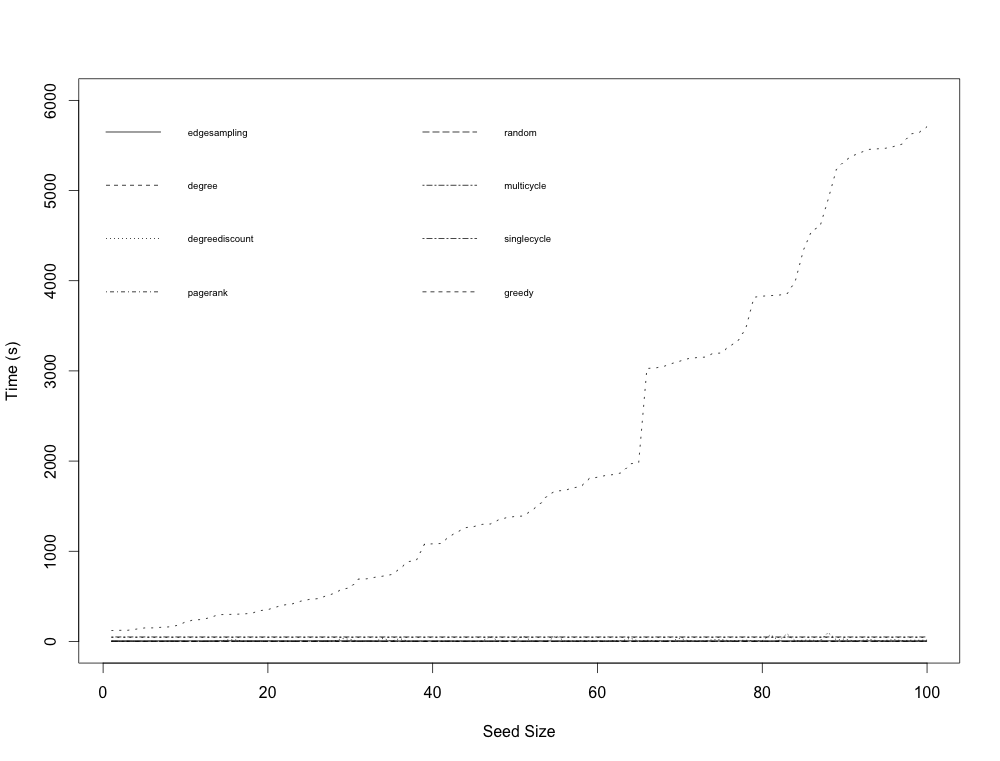
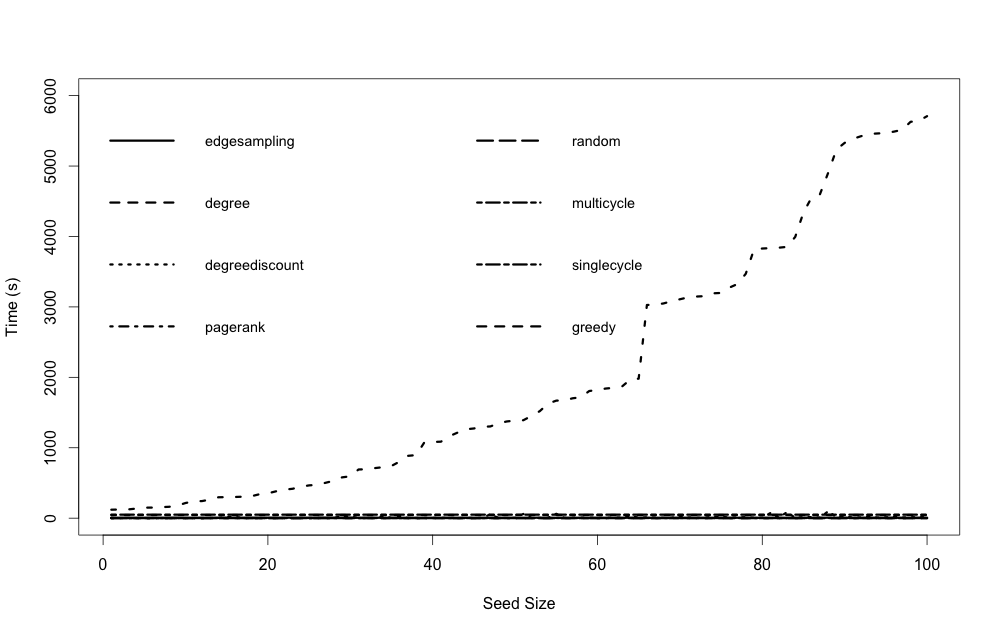
more readable graphs, addressed several issues pointed to be by Hannu, still has the appendix

diff --git a/main/main.tex b/main/main.tex
@@ -63,8 +63,7 @@ The rest of this document is structured as follows. Section \ref{sec:influencema
 \label{sec:influencemax}
 Effective marketing and advertisement methods have been a major application of Knowledge Discovery and Data mining. Prior to Domingo and Richardson \cite{domingo01} the focus has always been on direct marketing. Contrary to traditional mass marketing, where a product was marketed to all the customers, in direct marketing the goal is to find the most potential and profitable costumers. While direct marketing is a great tool for increasing the profit, it only targets individuals and disregards the relationship between users. People's decision in purchasing an item is not only influenced by the product itself, but also by friends, colleagues and acquaintances. With introduction of Internet and social networks, gathering information about users became easier and more feasible. Social networks nowadays contain information about millions of people, they also contain information related to people's relationship with each other. Utilizing these information can make marketing more profitable, by targeting people that are more likely to promote the product to their acquaintances. 
 Domingo and Richardson \cite{domingo01} discussed the use case of influence maximization in marketing, calling it \textit{Viral Marketing}. By modeling a market as a social network consisting of users and products. In such a network, probability of users buying products not only depends on the product itself but also on the neighbors of the user and the set of marketing actions being applied to the network. Hence the market can be formulated as join probability distribution. 
-Through these a function was devised that calculates the global lift in profit given a marketing action was applied to some users. Starting from an initial configuration, using different optimization algorithms a local maxima for the function can be reached. Hence the problem of influence maximization can be formulated as follows. \\ \\
-\textit{Given a size $k$ for the initial seeds, find the set of nodes $A$ that maximizes the function $f$ which is the size of spread throughout the network. }\\ \\
+Through these a function was devised that calculates the global lift in profit given a marketing action was applied to some users. Starting from an initial configuration, using different optimization algorithms a local maxima for the function can be reached. 
 They experimented on a collaborative filtering data set (MovieLens\footnote{https://movielens.org/}) in which users have rated a list of movies. They have first constructed the network with the user ratings, by choosing similar users (calculating the Pearson correlation coefficient of users) as neighbors. They have performed experiments on the data set and compared their method with mass marketing and direct marketing. Their method has increased the profit the most. Due to non-linearity of the model, it did not scale well for bigger size networks, hence they have proposed a new linear model in another paper \cite{domingo02}. Not only the new model decreased the computation time, they simplified equation for calculating the network value of customers, and made it easier to incorporate more complex marketing action. They have experimented with Epinions\footnote{http://www.epinions.com/} data set, which is a website where users can rate items. It also has a feature called trusted users, where each user can select many other users as trusted sources of reviews. Domingo et al.\ \cite{domingo02}, hence, applied their model to the dataset, by considering trusted users of a user as his neighbors. Their experiments showed that a continuous marketing action (a marketing action that can have unlimited values, such as a discount) performs much better than boolean marketing actions (one that can either be true or false, such as whether or not a discount should be given to a user with no regards for the amount of the discount). These two papers, are considered the first works in influence maximization, several other authors have used the concepts here to further improve and propose new methods for calculating the spread of nodes through a network.
 
 \subsection{Information Diffusion Models}
@@ -72,12 +71,12 @@ With introduction of Social Networks, the topic of information diffusion has gai
 
 \begin{itemize}
 \item Linear Threshold Model:\\
-Consider a directed graph G representing a social network, and individual nodes being either active or non-active. Inactive nodes may become active as more of their neighbors become active but the reverse is not possible. In \textit{Linear Threshold Model (LT)}, each node $v$ is influenced by each of their neighbors $u$ according to a weight $b_{u,v}$ such that $\sum \nolimits_{u \, neighbor \, of \, v} b_{u,v} < 1$. The diffusion process hence is as follows; each node $v$ will randomly chose a weight threshold $0 < \theta_v<1 $, this value determines tendency of node $v$ to become active. Starting from the initial seed set, in each iteration for each node if the sum of the weights of its active neighbors is greater than the threshold then the node will become active, i.e.\ $\sum \nolimits_{u \, active neighbor \, of \, v} b_{u,v}  \geq \theta_v $. The process is deterministic however since $\theta_v$ is chosen at random, it shows our lack of knowledge of users' tendencies to become active. This process continues until no new nodes become active.
+Consider a graph $G=(V,E)$, and all nodes being either active or non-active. Inactive nodes may become active as more of their neighbors become active but the reverse is not possible. In \textit{Linear Threshold Model (LT)}, each node $v$ is influenced by each of its neighbor $u$ according to a weight $b_{u,v}$ such that $\sum \nolimits_{u \, neighbor \, of \, v} b_{u,v} \leq 1$. The process starts with an initial set of active nodes and at the beginning of the process each node $v$ will randomly chose a weight threshold $0 < \theta_v<1 $, this value determines the tendency of node $v$ to become active. The diffusion process moves forward deterministically in series of discrete time steps $t$ and continues until no new nodes become active. In each time step $t$, all of the active nodes from step $t-1$ remain active and any non-active node $v$ is activated if $\sum \nolimits_{u \, active neighbor \, of \, v} b_{u,v} \geq \theta_v$. $\theta_v$ is chosen randomly to indicate our lack of knowledge about node's influenceability.  
 
 \item Independent Cascade Model:\\ 
- \textit{Independent Cascade Model (IC)} is a stochastic undeterministic process. Same as linear threshold model, it starts with an initial set of seeds, and in each time step $t$ every active node will try only once to activate all of its neighbors, the probability of a node $v$ activating one of its neighbors $u$ is defined by a system property $p_{v,u}$. The process continues until no more new nodes can become active. Every node will try to activate its neighbors independently of other nodes, and if during one time step, a node $v$ first becomes active by node $u$ the rest of $v$'s neighbors can skip the activation process. In that sense the ordering of which nodes should activate their neighbors first, will not affect the final result.
+ \textit{Independent Cascade Model (IC)} is a stochastic undeterministic process. Same as linear threshold model, it starts with an initial set of active nodes and the process continues in a series of discrete time steps. In each time step $t$, all of the active nodes from step $t-1$ will remain active and any node that was activated in step $t-1$ tries to activate all of its neighbors. The probability of a node $u$ activating one of its neighbors $v$ is defined by a system property $p_{u,v}$. The process continues until no more new nodes can become active. Every node will try to activate its neighbors independently of other nodes, and if during one time step, a node $v$ first becomes active by node $u$ the rest of $v$'s neighbors can skip the activation process. It is important to note that in each time step only nodes that became active in the previous time step will try to activate their neighbors, that means each activated node will only have one chance of activating its neighbors in the entire diffusion process. In classical Independent Cascade, the activation probability $p_{u,v}$ (probability of $u$ activating $v$) is defined as a system property and it either takes one constant value or a value randomly chosen from a small set of values. There are different methods for choosing the activation probability, and some of them are described in section \ref{subsec:learninginfprob}. 
 \end{itemize}
-Based on IC model another diffusion model is commonly used in literature, named \textit{Weighted Cascade (WC)} which is similar to IC with the exception of the activation probability. Where in IC it is defined as a global property, in WC each edge from $u$ to $v$ is assigned the probability $1/d_v$, where $d_v$ is the degree of vertex $v$. The probability for edges in weighted methods can be calculated in different ways, in fact finding the influence of nodes on each other is another research area in influence maximization and it is briefly explained in \ref{subsec:learninginfprob} .
+
 
 \subsection{Influence Maximization Problem}
 Kempe et al.\ \cite{kempe03} were the first to formulate Influence maximization as an optimization problem and proved that the problem is NP-complete. By studying how influence propagates through networks using the two diffusion models discussed earlier (IC and LT), they have formally expressed Domingos and Richardson's \cite{domingo01} optimization problem in the context of the above models. Both diffusion models involve an initial set of nodes $A$, the influence of the set $A$ denoted by $\sigma (A)$ is then defined as the number of nodes at the end of the process. Formally, the influence maximization problem can be defined as: \\
@@ -97,7 +96,7 @@ $f(A \cup \{v\}) - f(A) \geq f(S \cup \{v\}) - f(S)$, where $A \subseteq S$
 The greedy algorithm proposed by Kempe et al.\ \cite{kempe03} is described in Algorithm \ref{alg:KempeInfMax1}. 
 \begin{algorithm}[ht!]
 \floatname{algorithm}{Algorithm}
-\caption{Influence Maximization: Greed Algorithm}
+\caption{Influence Maximization: Greedy Algorithm \cite{kempe03}}
 \label{alg:KempeInfMax1}
 \begin{algorithmic}
 \Require $G(V,E)$: Graph $G$, with Vertex set $V$ and Edge set $E$
@@ -114,13 +113,13 @@ The greedy algorithm proposed by Kempe et al.\ \cite{kempe03} is described in Al
 \end{algorithmic}
 \end{algorithm}
 \\
-They have run experiments on co-authorship in physics theory section of arXiv \footnote{www.arxiv.org} dataset. The results show that their greedy algorithm performs better that other methods such as random selection, high-degree or central nodes .
-Both in estimating the spread and also in the greedy method, $\sigma (S)$ has to be calculated, but both of the propagation models are non-deterministic. To overcome this, the model is run many times (usually 10000) and the spread is the average of all the runs. The nature of the spread function makes the algorithm highly non scalable. Even on medium sized graphs running the simulation will take a lot of time, but on the other hand a good solution is only guaranteed if the simulation is run many times. From Algorithm \ref{alg:KempeInfMax1} it can be observed that $\sigma(v)$ is run for every node in every iteration, this will greatly affect the performance of the greedy method.
+They have run experiments on co-authorship in physics theory section of arXiv \footnote{www.arxiv.org} dataset. The results show that their greedy algorithm performs better than other methods such as random selection, high-degree or central nodes .
+Both in estimating the spread and also in the greedy method, $\sigma(S)$ has to be calculated, but since both of the diffusion processes involve random elements($\theta_v$ in Linear Threshold and activation of new nodes in Independent Cascade) to achieve a better estimate of the total spread, the models have to be run many times and the spread is calculated as the average of all the runs. The nature of the spread function makes the algorithm highly non scalable. Even on medium sized graphs running the simulation will take a lot of time, but on the other hand a good solution is only guaranteed if the simulation is run many times. The value of $\sigma(v)$ does not only depend on $v$ itself, but it also depends on the other active nodes. Hence in each iteration of the algorithm where a new node is added to the active vertices list, the value of $\sigma(v)$ has to be recalculated. This will greatly affect the performance of the greedy method.
 Leskovec et al.\ \cite{leskovec07}  in their Cost effective outbreak detection in networks, took upon the task of optimizing the greedy method used in propagation in graph networks. Although they did not work on solving the problem of maximizing influence, they have proven their method can be adapted to the problem of maximizing the influence using the greedy algorithm. They studied two problems from different domains which share some similarities with influence maximization. The first problem is finding the best placement of sensors in a water network, so that contaminated water can be detected as quickly as possible. The other problem is blog network, which is to find blogs that contains the maximum amount of news that cascades from different sources in shortest possible time. Their advanced greedy method, called \textit{CELF}, utilizes the submodularity of the objective function, which reduces the amount of computation needed to be made in each iteration. Their method is 700 times faster than a simple greedy function. 
 Their observation is that, if $A$ is subset of $B$, the marginal gain of adding a node to $B$ is always less than or equal to the marginal gain of the adding the same node to $A$. Hence instead of recomputing the gain for all the node in each iteration, we can go through the nodes in decreasing order of their spread and recompute their values, the change is usually very small and most of the time the value on top of the list stays on top. Algorithm \ref{alg:celf} describes CELF method.
 \begin{algorithm}[ht!]
 \floatname{algorithm}{Algorithm}
-\caption{CELF Algorithm}
+\caption{CELF Algorithm \cite{leskovec07}}
 \label{alg:celf}
 \begin{algorithmic}
 \Require $G(V,E)$: Graph $G$, with Vertex set $V$ and Edge set $E$
@@ -141,7 +140,7 @@ Their observation is that, if $A$ is subset of $B$, the marginal gain of adding 
 \end{algorithmic}
 \end{algorithm}
 As can be seen from the algorithm description, the difference between CELF and the normal Greedy method, is that in CELF, $delta_v$ is pre-calculated for all the vertices first, then starting from the biggest value, in each iteration $\delta_u$ is recalculated for vertex $u$ if the value is still higher than the next vertex in the list, then node $u$ is added to $S$ otherwise the next vertex is chosen. As in the previous algorithm, $\sigma(v)$ is the expected spread of the node $v$ under the IC model. 
-\\Chen et al.\ \cite{chen09} proposed several different methods for solving the problem of influence maximization. The first group of algorithms, were improvements upon Kempe et al.\ \cite{kempe03} and Leskovec et al.\ \cite{leskovec07} greedy methods. In their greedy method, they have modified the simulation process. Instead of trying to activate nodes based on the edge probability one by one, they have first created a new Graph $G'$ which is sampled from the original graph based on the edge probability. Now the process of estimating the spread of initial set $S$ is just finding the number of reachable nodes in $G'$ from $S$, this process is repeated many times and the result is the average for all of the $G'$ sampled Graphs. Although this method is much faster than the original greedy method, it cannot compete with Leskovec \cite{leskovec07} CELF method, since in their method only in the first iteration the spread for all the nodes are calculated and from the second iteration onward, due to submodularity only the spread for a few of the nodes are recalculated. Hence, they have combined their new Greedy method with CELF, where in the first iteration they use the sample graphs to calculate the spread and in the following iterations CELF is used. The second class of algorithms they have proposed are a set of heuristics for finding the seed set that maximizes the influence. Prior to their work, heuristics have been considered inferior to the Greedy method and while that is true for many of the heuristics, such as degree, random, distance and etc., their proposed heuristic called \textit{DegreeDiscountIC} managed to achieve almost the same spread with the greedy method while outperforming the greedy methods by orders of magnitude. Details of the algorithm DegreeDiscountIC is explained in section \ref{sec:bigdatanetworkinfluelncemaximization}.
+\\Chen et al.\ \cite{chen09} proposed several different methods for solving the problem of influence maximization. The first group of algorithms, were improvements upon Kempe et al.\ \cite{kempe03} and Leskovec et al.\ \cite{leskovec07} greedy methods. In their greedy method, they have modified the simulation process. Instead of trying to activate nodes based on the edge probability one by one, they have first created a new Graph $G'$ which is sampled from the original graph based on the edge probability. Now the process of estimating the spread of initial set $S$ is just finding the number of reachable nodes in $G'$ from $S$, this process is repeated many times and the result is the average for all of the $G'$ sampled Graphs. Although this method is much faster than the original greedy method, it cannot compete with CELF \cite{leskovec07} method, since in their method only in the first iteration the spread for all the nodes are calculated and from the second iteration onward, due to submodularity only the spread for a few of the nodes are recalculated. Hence, they have combined their new Greedy method with CELF, where in the first iteration they use the sample graphs to calculate the spread and in the following iterations CELF is used. The second class of algorithms they have proposed are a set of heuristics for finding the seed set that maximizes the influence. Prior to their work, heuristics have been considered inferior to the Greedy method and while that is true for many of the heuristics, such as degree, random, distance and etc., their proposed heuristic called \textit{DegreeDiscountIC} managed to achieve almost the same spread with the greedy method while outperforming the greedy methods by orders of magnitude. Details of the algorithm DegreeDiscountIC is explained in section \ref{sec:bigdatanetworkinfluelncemaximization}.
 
 Other notable heuristic method is of Saito and Kimura \cite{kimura06}. They have investigated the scalability issue of IC model's simulations. They have argued that currently IC model requires many iterations of simulation and each iteration took a lot of processing time and power. They have proposed two natural special cases of the IC model that provide a good estimate of the spread without the need for running the simulations. They define the Shortest-Path Model(SPM) which is a special case of the IC model in which each node $v$ has the chance to become active only at step = $d(S,v)$, where if $S$ is the initial set, $d(S,v)$ is the distance of $S$ to node $v$. This means that each node is activated only through the shortest paths from the initial active set. The other model they have proposed named SP1M, which is each node v has the chance to become active only at steps $t = d(S,v)$ and $t =d(S,v) + 1$. Through these two models they have proposed methods for calculating the spread of an initial active set $S$. They have proved that the result achieved using this method is also within a bound of the best solution. In their experiments, they have assigned a uniform probably to each edge with two different values $p = 0.1$ and $p =0.01$. The experiments showed that the estimation of the spread for IC model increases as p increases while the processing times for the SPM and SP1M hardly changes. 
 
@@ -159,7 +158,7 @@ The same set of snapshots are reused in every iteration to estimate the influenc
 They have performed experiment and compared their methods with the normal Greedy methods. None of the other greedy methods are any match with StaticGreedy in terms of speed and scalability.
 \begin{algorithm}[ht!]
 \floatname{algorithm}{Algorithm}
-\caption{UBLF Algorithm}
+\caption{UBLF Algorithm  \cite{zhuo13}}
 \label{alg:ublf}
 \begin{algorithmic}
 \Require $G(V,E)$: Graph $G$, with Vertex set $V$ and Edge set $E$
@@ -184,7 +183,7 @@ They have performed experiment and compared their methods with the normal Greedy
 \end{algorithmic}
 \end{algorithm}
 
-Zhuo et al.\ \cite{zhuo13} propsed a new Greedy algorithm called \textit{Upper Bound based Lazy Forward algorithm(UBLF)}. They have tried to bound the number of Monte Carlo simulation calls, similar to Leskovec et al.\ \cite{leskovec07}'s CELF algorithm. CELF increased the speed of the original algorithm by a factor 700 on average case, but still on its first iteration it has to calculate the spread of every vertex, that means Monte Carlo simulations have to be run for all the vertices in the first iteration, and it was argued before, that while that is reasonably fast and will give good result on small networks, it will not perform well on medium sized graphs let alone large scale graphs. To that extent, even running the simulations for all the vertices once is not feasible. Zhuo et al.\ \cite{zhuo13} provided a mathematically proven upper bound for spread function of any initial set. In UBLF, instead of running simulations for each vertex in the first iteration, they find the upper bound which can be found in constant time. Having the initial values for all the nodes, they used the same technique as CELF, and instead of the calculating the expected spread for all the nodes, they started calculating the spread for vertices in order of their initial estimated spread, if the estimated spread was still bigger than the rest of nodes, the node was chosen and added to the seed set. Computation continues until desired number of initial seeds are achieved. Algorithm \ref{alg:ublf} describes UBLF. The matrix $PP$ is constructed from the graph, where each value $(u,v)$ in the matrix corresponds to the edge $e=(u,v)$; value of the edge that connects $u$ to $v$. $S$ consists of the seed set, the output of the algorithm i.e.\ nodes with highest influence propagation and $I$ is the \textit{identity matrix}. Before starting the iterative process, vector $\delta$ is calculated. In each iteration of the algorithm, vertices with the maximum $\delta$ are chosen, if Monte Carlo simulation is not yet run for them, the algorithm will run the simulation, if the value of $\delta_u$ is still greater than the node with second highest $\delta$ then $u$ is added to to the set $S$ . The process continues for $k$ iteration, where $k$ is the desired size of the output. $\sigma(v)$ is the expected spread of $v$ under the \textit{IC} model. Experimental results shows that UBLF manages to reduce more than $95\%$ Monte Carlo simulations needed and is at least 2 to 5 times faster than CELF method.
+Zhuo et al.\ \cite{zhuo13} propsed a new Greedy algorithm called \textit{Upper Bound based Lazy Forward algorithm(UBLF)}. They have tried to bound the number of Monte Carlo simulation calls, similar to CELF algorithm \cite{leskovec07}. CELF increased the speed of the original algorithm by a factor 700 on average case, but still on its first iteration it has to calculate the spread of every vertex, that means Monte Carlo simulations have to be run for all the vertices in the first iteration, and it was argued before, that while that is reasonably fast and will give good result on small networks, it will not perform well on medium sized graphs let alone large scale graphs. To that extent, even running the simulations for all the vertices once is not feasible. Zhuo et al.\ \cite{zhuo13} provided a mathematically proven upper bound for spread function of any initial set. In UBLF, instead of running simulations for each vertex in the first iteration, they find the upper bound which can be found in constant time. Having the initial values for all the nodes, they used the same technique as CELF, and instead of the calculating the expected spread for all the nodes, they started calculating the spread for vertices in order of their initial estimated spread, if the estimated spread was still bigger than the rest of nodes, the node was chosen and added to the seed set. Computation continues until desired number of initial seeds are achieved. Algorithm \ref{alg:ublf} describes UBLF. The matrix $PP$ is constructed from the graph, where each value $(u,v)$ in the matrix corresponds to the edge $e=(u,v)$; value of the edge that connects $u$ to $v$. $S$ consists of the seed set, the output of the algorithm i.e.\ nodes with highest influence propagation and $I$ is the \textit{identity matrix}. Before starting the iterative process, vector $\delta$ is calculated. In each iteration of the algorithm, vertices with the maximum $\delta$ are chosen, if Monte Carlo simulation is not yet run for them, the algorithm will run the simulation, if the value of $\delta_u$ is still greater than the node with second highest $\delta$ then $u$ is added to to the set $S$ . The process continues for $k$ iteration, where $k$ is the desired size of the output. $\sigma(v)$ is the expected spread of $v$ under the \textit{IC} model. Experimental results shows that UBLF manages to reduce more than $95\%$ Monte Carlo simulations needed and is at least 2 to 5 times faster than CELF method.
 
 \subsection{Learning Influence Probabilities}
 \label{subsec:learninginfprob}
@@ -236,7 +235,7 @@ Newer versions of Hadoop and MapReduce employs more sophisticated resource manag
 
 \begin{figure}[ht!]
 \centering
-\includegraphics[width=130mm]{figures/mapreduce.jpg}
+\includegraphics[width=150mm]{figures/mapreduce.jpg}
 \caption[]{MapReduce paradigm \footnotemark}
 
 \label{fig:mapreducepara}
@@ -246,7 +245,7 @@ Newer versions of Hadoop and MapReduce employs more sophisticated resource manag
 \textit{Hadoop Distributed File System (HDFS)} is a distributed file system, designed to run on commodity hardware. It provides high throughput access to application data and it is fault tolerant. Though initially designed for Hadoop's MapReduce framework, it has been used in many different applications and frameworks.
 \begin{figure}[ht!]
 \centering
-\includegraphics[width=130mm]{figures/hdfsarchitecture.png}
+\includegraphics[width=150mm]{figures/hdfsarchitecture.png}
 \caption[]{HDFS Architecture \protect \footnotemark}
 \label{fig:hdfsarch}
 \end{figure}
@@ -261,7 +260,7 @@ A typical Spark program consists of a driver program that launches multiple work
 
 \begin{figure}[ht!]
 \centering
-\includegraphics[width=130mm]{figures/sparkprogram.png}
+\includegraphics[width=150mm]{figures/sparkprogram.png}
 \caption[]{Spark Program, Zahaeria et al.\ \cite{zaharia10}}
 \label{fig:sparkprogram}
 \end{figure}
@@ -271,7 +270,7 @@ Users can control RDDs behavior by persisting it to memory or disk. Tests perfor
  
 \begin{figure}[ht!]
 \centering
-\includegraphics[width=130mm]{figures/rdd.png}
+\includegraphics[width=150mm]{figures/rdd.png}
 \caption[]{Spark stages and RDDs  Zahaeria et al.\ \cite{zaharia12} }
 \label{fig:rdd}
 \end{figure}
@@ -300,7 +299,7 @@ In a typical Giraph program, input graph is usually stored and read from the HDF
 Figure \ref{fig:giraph} shows how computation is done in Giraph.
 \begin{figure}[ht!]
 \centering
-\includegraphics[width=130mm]{figures/giraphdataflow.png}
+\includegraphics[width=150mm]{figures/giraphdataflow.png}
 \caption{Giraph Work Flow \protect \footnotemark}
 \label{fig:giraph}
 \end{figure}
@@ -310,7 +309,7 @@ Each Giraph cluster has a master node and one or more worker nodes. Master node 
 The figure \ref{fig:sssp} shows supersteps involved with computing the single source shortest path for a simple graph.
 \begin{figure}[ht!]
 \centering
-\includegraphics[width=130mm]{figures/giraphsuperstep.jpg}
+\includegraphics[width=150mm]{figures/giraphsuperstep.jpg}
 \caption{Single Source Shortest Path  \protect \footnotemark}
 \label{fig:sssp}
 \end{figure}
@@ -333,7 +332,7 @@ GraphX also provides a Pregel like API, that users should only provide the verte
 
 \section{Big Data and Network Influence Maximization}
 \label{sec:bigdatanetworkinfluelncemaximization}
-The original greedy method proposed by Kempe et al.\ \cite{kempe03} provided a reliable solution to the problem of maximizing influence in graphs. Several other researchers have worked on finding algorithms that find better solutions in terms of accuracy, but most of the researches done in recent years were involved around improving the efficiency of the original method. Leskovec et al.\ \cite{leskovec07} CELF, Goyal's \cite{goyal112} CELF++ and Zhuo et al.\ \cite{zhuo13} methods have considerably increased the speed of the original Greedy method. Cheng et al.\ \cite{cheng13} proposed the StaticGreedy method which combined with CELF further improved the speed of the greedy method.  However, none of the proposed methods are scalable and they can only operate on small to medium sized graphs. The bottleneck for the greedy method lies in the function it is trying to optimize.  As discussed in the previous sections, the spread function under the Independent Cascade (and Linear Threshold) model cannot be determined exactly due to the edge probabilities. Hence, Monte Carlo method is being used which consists of running the IC model many times (up to 10000 for accurate result) and then averaging over all the simulations. Currently, there are companies and organizations that have graphs of millions to billions of nodes with even more edges, and non of the optimization methods discussed above can be applied to any of these graphs. Even on most powerful clusters running the random process even for one iteration takes a lot of time, essentially rendering these methods completely useless. The other group of methods discussed in the previous sections were heuristic methods. They can range from very simple methods such as finding the nodes with highest in or out degree to more sophisticated ones such as \textit{Single Discount} and \textit{Degree Discount} discussed by Chen et al.\ \cite{chen09} or SPM and SP1M proposed by Saito and Kimura \cite{kimura06}. The advantages of heuristic methods are that they are very fast and they can scale to graphs of any sizes, however the accuracy of the solution is not as good as the greedy method. 
+The original greedy method proposed by Kempe et al.\ \cite{kempe03} provided a reliable solution to the problem of maximizing influence in graphs. Several other researchers have worked on finding algorithms that find better solutions in terms of accuracy, but most of the researches done in recent years were involved around improving the efficiency of the original method. CELF \cite{leskovec07},  CELF++ by Goyal's \cite{goyal112} and Zhuo et al.\ \cite{zhuo13} methods have considerably increased the speed of the original Greedy method. Cheng et al.\ \cite{cheng13} proposed the StaticGreedy method which combined with CELF further improved the speed of the greedy method.  However, none of the proposed methods are scalable and they can only operate on small to medium sized graphs. The bottleneck for the greedy method lies in the function it is trying to optimize.  As discussed in the previous sections, the spread function under the Independent Cascade (and Linear Threshold) model cannot be determined exactly due to the edge probabilities. Hence, Monte Carlo method is being used which consists of running the IC model many times (up to 10000 for accurate result) and then averaging over all the simulations. Currently, there are companies and organizations that have graphs of millions to billions of nodes with even more edges, and non of the optimization methods discussed above can be applied to any of these graphs. Even on most powerful clusters running the random process even for one iteration takes a lot of time, essentially rendering these methods completely useless. The other group of methods discussed in the previous sections were heuristic methods. They can range from very simple methods such as finding the nodes with highest in or out degree to more sophisticated ones such as \textit{Single Discount} and \textit{Degree Discount} discussed by Chen et al.\ \cite{chen09} or SPM and SP1M proposed by Saito and Kimura \cite{kimura06}. The advantages of heuristic methods are that they are very fast and they can scale to graphs of any sizes, however the accuracy of the solution is not as good as the greedy method. 
 \\
 In the rest of this section, first the literature on influence maximization for big data and then details of the methods implemented are discussed. Some of methods are fairly simple heuristics and some are based on the methods discussed in previous sections with tweaks that make it possible to implement it on large scale graphs. Changes have to be made to the original algorithms in order to implement the methods using graph frameworks built for processing  large graphs. These frameworks are imposing certain set of restrictions that will make applying some classes of algorithms more difficult. Bulk Synchronous Processing is the base of all the large scale graph frameworks where they are using the method of \textit{Think Like a Vertex}, which means each vertex is a virtual computation abstraction. Although this has many benefits but when it comes to classical IC and LT models, some difficulties will rise. In BSP model, usually algorithms that only need local data are implemented a lot simpler, but in influence maximization we need global access to the network and to find out how many new nodes were affected by adding a node to the initial seed. The whole process is a randomized simulation that should be run hundreds or thousands of times to get a better and more accurate result. Large scale data processing usually suffers in this area, because initializing jobs given huge amount of data whether it is in graph format or others, takes some time and that is something that should be avoided. 
 The main challenges when implementing the methods using BSP models are hence, finding ways to avoid the iterative and simulation like implementation and trying to generalize the whole simulation cycle into one BSP job.
@@ -467,7 +466,7 @@ As with other methods, some modifications have to be made to make this method mo
 In previous section, Chen et al.\ \cite{chen09} heuristic for choosing the best vertices for initial seed was discussed. Their method has several advantages that make it easy to implement, and it is very fast and scalable. This method does not require a simulation as it is a simple heuristic based on the degree of each vertex. According to Chen et al.\ \cite{chen09} it yields an extremely good result which is in par with greedy methods.
 \begin{algorithm}[ht!]
 \floatname{algorithm}{Algorithm}
-\caption{Degree Discount}
+\caption{Degree Discount  \cite{chen09}}
 \label{alg:degreedicount}
 \begin{algorithmic}
 \Require $G(V,E)$: Graph $G$, with Vertex set $V$ and Edge set $E$
@@ -492,6 +491,7 @@ In previous section, Chen et al.\ \cite{chen09} heuristic for choosing the best 
 Compared to other heuristic methods that will be discussed in the next section, this method is more difficult to implement in a BSP model. The number of iterations the algorithm runs depends on the seed size. Basically, after initializing all the vertices, in each iteration the best vertex is chosen and added to the seed set. After that, the values for the neighbors of the selected vertex will be changed based on the formula presented in the algorithm \ref{alg:degreedicount}. This means for a seed set of size $k$, the algorithm runs for $k$ iterations. Although this method looks promising, the underlying strategy is not very feasible to implement in BSP, and since it includes the same number of iterations as the seed size, it will not scale to large graphs at least in GraphX and Giraph. In section \ref{sec:experiments}, the result of the method on a smaller graph is reported, but for large scale graphs it is not feasible to run.
 
 \subsection{Other Heuristics}
+Degree Discount heuristic discussed in previous section, is one of the many heuristics methods that have been used in influence maximization. As explained earlier, although heuristic methods are inferior to more complex methods such as the greedy algorithm in terms of quality of the solution, they have one advantage over them. These classes of solutions are highly scalable and can be easily applied to very large graphs. Below is a list of some of the heuristics methods that have been used for finding the initial set of active nodes in influence maximization problem. \\
 \textbf{Random}: $k$ random vertices are selected as the solution. This is used as a baseline for other methods to see if they perform better than just choosing nodes at random. \\
 \textbf{Degree}: Degree of a vertex is defined as the number of edges connected to a vertex. In this method, the vertices with the highest degree are chosen as the initial seed. \\ 
 \textbf{Single Discount}: Improved version of Degree heuristic. After a vertex is chosen as the seed, it is removed from the graph, that means all of its neighbors' degree are reduced by one. This yields a better result than degree heuristic, since it lowers the chance of neighboring vertices to be selected as the initial seed. \\ 
@@ -501,7 +501,13 @@ Compared to other heuristic methods that will be discussed in the next section, 
 
 \section{Experiments}
 \label{sec:experiments}
-In this section all the experiments are explained in detail. Experiments include the methods described in previous sections and a number of real and artificially generated data sets.
+Two important aspects of solutions for influence maximization problem for large scale graphs are:
+\begin{itemize}
+\item \textbf{Quality} which is measured by the spread of the solution found(initial active set of vertices) under Independent Cascade model
+\item \textbf{Scalability} which is measured by the running time of the program. 
+\end{itemize}
+In this section the details of the experiments, including the software and hardware platform, data sets and methods are explained in detail.
+
 \subsection{Experiment Setup}
 Experiments are run on two different computation platform. For the smaller data sets, to test the accuracy and speed of the methods the experiments are run on a single machine. The bigger data set is run on an EMR cluster. The details are below. 
 
@@ -517,10 +523,10 @@ Except for the Greedy CELF method, which is implemented in a single threaded Jav
 \subsection{Data set}
 Below is an overview of the data sets used in the experiments. All of the data sets are provided in an edge list format. In each line there are two vertex ids separated by a tab character. The two vertices are end points of an edge. 
 \subsubsection{ArXiv collaboration network data set}
-A data set from the e-print arXiv\footnote{http://arxiv.org/} is chosen for testing the algorithms on smaller scale graphs. The data set contains academic collaboration for scientific research papers. In this data set, vertices represent researchers and edges define a collaboration between two researchers on writing a scientific paper. The data set has been used by several other researchers in the field of influence maximization and can provide a good comparison for the quality of the methods. The \textit{High Energy Physics-Theory} graph, which contains papers from 1991 to 2003, with 15,233 nodes and 58,981 edges is used as a base comparison of the methods proposed in section \ref{sec:bigdatanetworkinfluelncemaximization} and state of the art greedy method.
+A data set from the e-print arXiv\footnote{http://arxiv.org/} is chosen for testing the algorithms on smaller scale graphs. The data set contains academic collaboration for scientific research papers. In this data set, vertices represent researchers and edges define a collaboration between two researchers on writing a scientific paper. The data set has been used by several other researchers in the field of influence maximization and can provide a good comparison for the quality of the methods. The \textit{High Energy Physics-Theory} graph, which contains papers from 1991 to 2003, with 15,233 nodes and 58,981 edges is used as a base comparison of the methods proposed in section \ref{sec:bigdatanetworkinfluelncemaximization} and state of the art greedy method. The data set in this format was made publicly available by Chen et al.\ \cite{chen09} and can be found here: http://research.microsoft.com/en-us/people/weic/graphdata.zip. 
 
 \subsubsection{LiveJournal Social Network}
-LiveJournal is a free online community with almost 10 million members, with many of them being active. Similar to other types of social networks, users can form friendship with other members. It consists of 4,847,571 vertices and 68,993,773 edges. Considerably larger than a lot of data sets usually used in influence maximization research.
+LiveJournal is a free online community with almost 10 million members, with many of them being active. Similar to other types of social networks, users can form friendship with other members. It consists of 4,847,571 vertices and 68,993,773 edges. Considerably larger than a lot of data sets usually used in influence maximization research. The data set is publicly available at https://snap.stanford.edu/data/soc-LiveJournal1.html. 
 
 \subsection{Methods \& Implementation details}
 List of influence propagation methods used in the experiments
@@ -563,14 +569,14 @@ In this section, the results of running the algorithm discussed in section \ref{
 In this section the result of running different methods on collaboration network data set are explained. To calculate the spread for each method, multiple simulations needed to be run, in these set of experiments number of simulations is set to 100. While increasing the number will make the result more accurate, it will also increase the running time. Experiments have been run with different number of simulations and the results show that the difference between number of simulations is not very significant. 
 \begin{figure}[ht!]
 \centering
-\includegraphics[width=100mm]{figures/hep/searchmethods.png}
+\includegraphics[width=150mm]{figures/hep/searchmethods.png}
 \caption{Search methods}
 \label{hep:searchmethods}
 \end{figure}
 Figure \ref{hep:searchmethods} shows the result of running search methods on collaboration graph. Clearly the greedy method is much better than all of the other methods. As discussed in previous chapters, the underlying approach of the other three methods are similar and hence their spread is more or the less the same. Both edge sampling's number of iterations and multicycle's number of tokens are set to 100, and their results are a little better than single cycle, but as explained earlier both the noise from calculating the spread and the algorithms themselves make it difficult to clearly distinguish their differences.
 \begin{figure}[ht!]
 \centering
-\includegraphics[width=100mm]{figures/hep/heuristicsmethods.png}
+\includegraphics[width=150mm]{figures/hep/heuristicsmethods.png}
 \caption{Heuristic methods}
 \label{hep:heuristicmethods}
 \end{figure}
@@ -597,7 +603,7 @@ Figure \ref{hep:heuristicmethods} shows the spread of the heuristics methods on 
 Table \ref{hep:timetable} shows the running time all of the methods except for the greedy method. As explained in previous chapters, running time of all of the methods specified in the table is independent of seed size, that is the biggest advantage of these methods over the greedy method. Figure \ref{hep:times} shows the running time of the greedy method based on seed size, to make the comparison easier, running time of other methods are also shown in the figure. To find a seed set of size 100 on the collaboration network data set after applying the celf optimization, it takes almost 2 hours, and this graph is much smaller than a typical big data graph. Being a NP-Hard problem, the algorithm will not scale linearly, this means for data sets that are 100 times bigger than collaboration network, it might take thousands of time more to run the algorithm
 \begin{figure}[H]
 \centering
-\includegraphics[width=130mm]{figures/hep/times.png}
+\includegraphics[width=150mm]{figures/hep/times.png}
 \caption{Running time of different methods on collaboration network data set}
 \label{hep:times}
 \end{figure}
@@ -606,7 +612,7 @@ Table \ref{hep:timetable} shows the running time all of the methods except for t
 
 \begin{figure}[ht!]
 \centering
-\includegraphics[width=130mm]{figures/journal/spread.png}
+\includegraphics[width=150mm]{figures/journal/spread.png}
 \caption{Spread of different methods on Live Journal Data set}
 \label{journal:spread}
 \end{figure}
@@ -636,7 +642,7 @@ Table \ref{journal:time} shows the running time of different algorithms. random 
 In this section the spread of degree, pagerank and edge sampling methods on different types of artificially generated graphs are investigated. As a baseline the spread of random set of seeds are also drawn. Each of the graphs carry some specific properties that distinguishes them from each other. As observed from the real graph examples in the previous sections, edge sampling method is not always performing better than the heuristics methods such as pagerank and degree. Here, it will be shown for which types of graphs edge sampling method is performing better. 
 \begin{figure}[ht!]
 \centering
-\includegraphics[width=130mm]{figures/artificial/random.png}
+\includegraphics[width=150mm]{figures/artificial/random.png}
 \caption{Random graph of 1000 vertices and 4000 edges}
 \label{art:random}
 \end{figure}
@@ -645,7 +651,7 @@ Figure \ref{art:random} shows the spread on a graph with randomly generated edge
 
 \begin{figure}[ht!]
 \centering
-\includegraphics[width=130mm]{figures/artificial/sparse.png}
+\includegraphics[width=150mm]{figures/artificial/sparse.png}
 \caption{Sparse graph with 1000 vertices and 1000 edges}
 \label{art:sparse}
 \end{figure}
@@ -654,7 +660,7 @@ Figure \ref{art:sparse} shows the spread on a sparse graph. The graph is generat
 
 \begin{figure}[ht!]
 \centering
-\includegraphics[width=130mm]{figures/artificial/skewed.png}
+\includegraphics[width=150mm]{figures/artificial/skewed.png}
 \caption{Skewed graph with 1000 vertices and 4000 edges}
 \label{art:skewed}
 \end{figure}
@@ -663,7 +669,7 @@ Figure \ref{art:skewed} shows the spread on a skewed graph. Here the difference 
 
 \begin{figure}[ht!]
 \centering
-\includegraphics[width=130mm]{figures/artificial/clustered.png}
+\includegraphics[width=150mm]{figures/artificial/clustered.png}
 \caption{Clustered graph with 1000 vertices and 10000 edges}
 \label{art:clustered}
 \end{figure}
